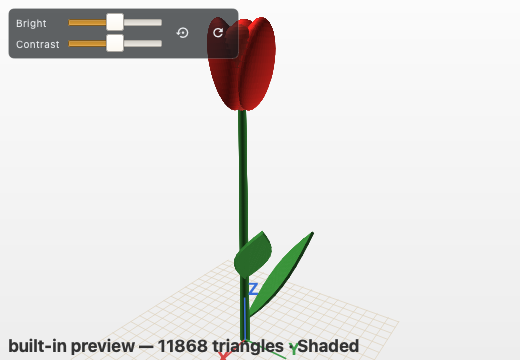
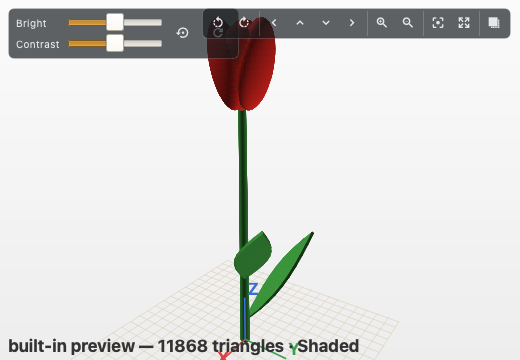
docs: guide covers nav bars, Vibe Model, platform and PNG export
The guide showed a window without the new navigation bars and said
nothing about Vibe Model or the platform & shadow stage. It now
describes each where it is used, with fresh screenshots from the
screenshot script, which gained shots of Vibe Model and the stage.

Changed region(s): [[0.3692, 0.0, 0.9846, 0.1222]]

diff --git a/khervecad/userguide_content.py b/khervecad/userguide_content.py
@@ -536,6 +536,16 @@ Clay, Toon, Brushed metal, Gold, Copper, Wireframe, X-ray);
 orthographic) are next to it. The floating bar sets brightness and
 contrast. None of these change the model.</p>
 {figure("render_styles", "Four of the render styles.")}
+<h3>Platform and shadow</h3>
+<p><b>View &rsaquo; 3D Platform &amp; Shadow</b> (or the platform button on
+the 3D view's bar) stands the model on a round platform and casts a
+soft shadow from a light far away at the top left, the way a product
+photo is lit. The light follows the camera, so the shadow always falls
+towards the bottom right as you turn the model. It is a look only
+&mdash; nothing is added to the model or the exported files &mdash; and
+it is remembered between sessions. Exported pictures (File &rsaquo;
+Export PNG) include it.</p>
+{figure("stage", "The platform and its shadow.")}
 <h3>Preview and exact render</h3>
 <p>Every change redraws instantly with the <b>built-in preview</b>. If
 OpenSCAD is installed (it is included with the installer), an
@@ -629,6 +639,8 @@ the 3D model fills the window, so you can describe the part and watch it
 build. Click again to bring everything back and edit by hand. The name
 borrows from <i>vibe coding</i> &mdash; building software by describing
 it to an AI.</p>
+{figure("vibe_model", "Vibe Model: only the 3D view, with its "
+        "navigation bar; the toggle is lit at the end of the toolbar.")}
 <h3>The ChatBox</h3>
 <p><b>AI &rsaquo; ChatBox</b> {K("Ctrl+/")} (or the robot button) docks a
 chat on the right that works with your own <b>Claude, Mistral or

diff --git a/packaging/make_help_screenshots.py b/packaging/make_help_screenshots.py
@@ -449,9 +449,41 @@ def shot_attach(win):
     dlg.reject()
 
 
+def shot_vibe(win):
+    """Vibe Model: the 3D view alone, the toggle lit on the toolbar."""
+    match = [b for n, _c, b in examples.EXAMPLES if n == "Tulip"]
+    if not match:
+        return
+    examples.load_example(win.model, match[0])
+    win._dirty = False
+    win.set_vibe_model(True)
+    settle(300)
+    win.view3d.user_moved = False
+    win.view3d.yaw, win.view3d.pitch = 35.0, 18.0
+    win.view3d.fit()
+    finish_3d(win)
+    save(win.grab(), "vibe_model", WIDE)
+    win.set_vibe_model(False)
+    settle(200)
+
+
+def shot_stage(win):
+    """The platform & shadow stage, set on the widget so the user's
+    persisted setting is untouched."""
+    load(win, "Desk setup")
+    view = win.view3d
+    view.stage = True
+    view.user_moved = False
+    view.yaw, view.pitch = 35.0, 25.0
+    view.fit()
+    finish_3d(win)
+    save(view.grab(), "stage", 900)
+    view.stage = False
+
+
 SHOTS = [shot_window, shot_toolbars, shot_tutorial, shot_tabs,
          shot_named_rows, shot_sketch, shot_styles, shot_character,
-         shot_attach, shot_dialogs]
+         shot_attach, shot_dialogs, shot_vibe, shot_stage]
 
 
 def main(only=()):
